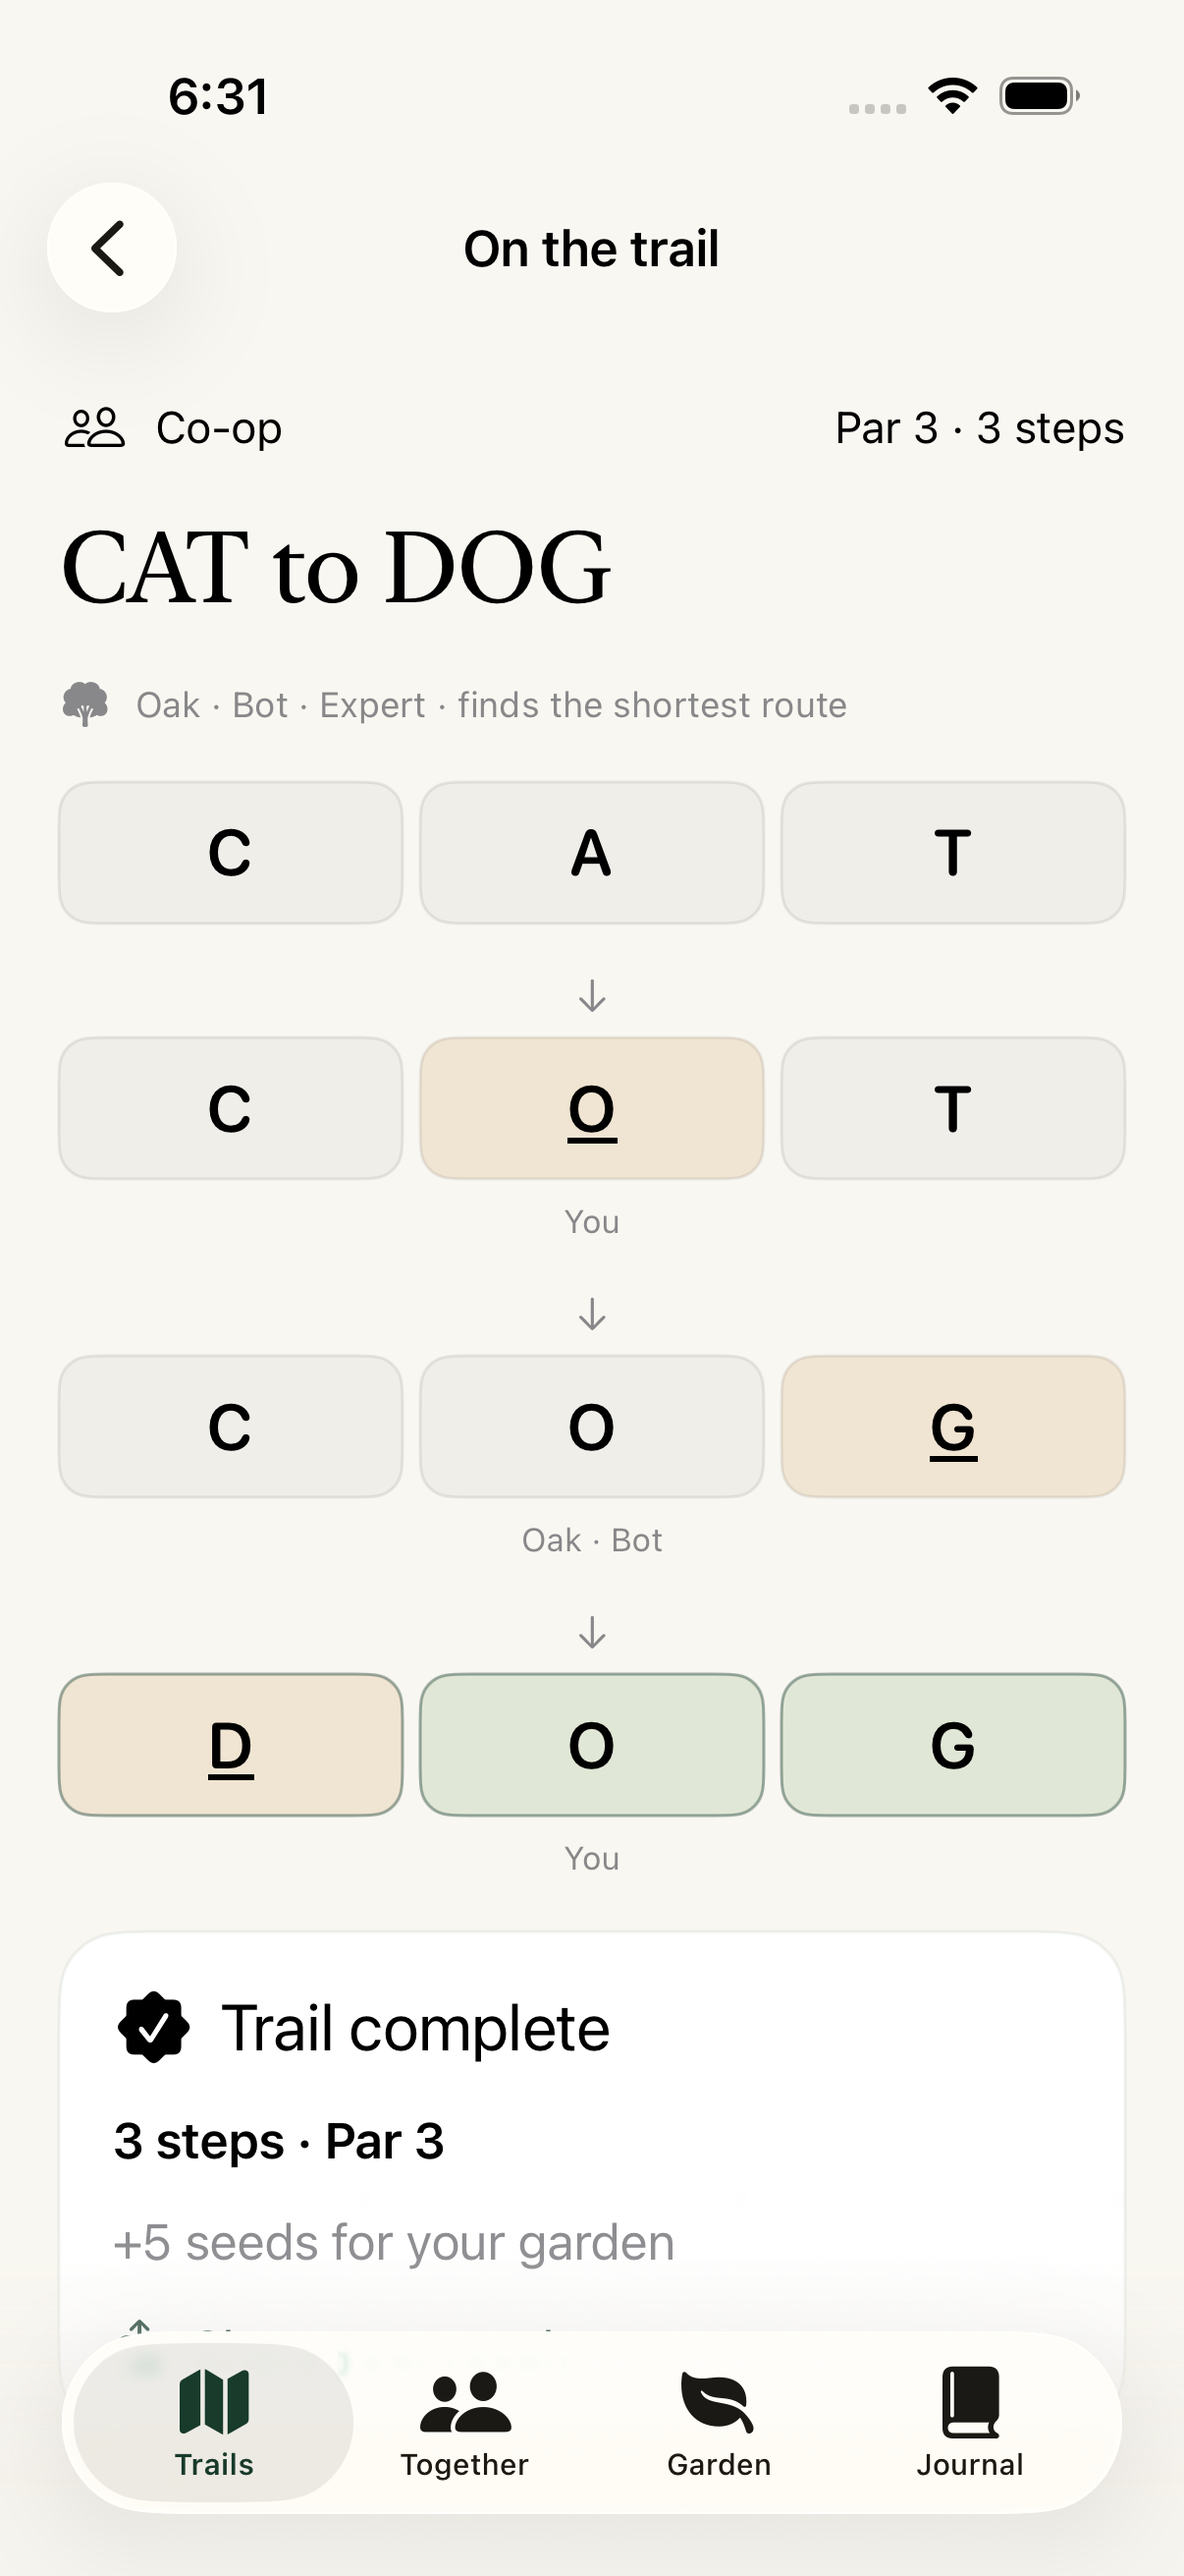
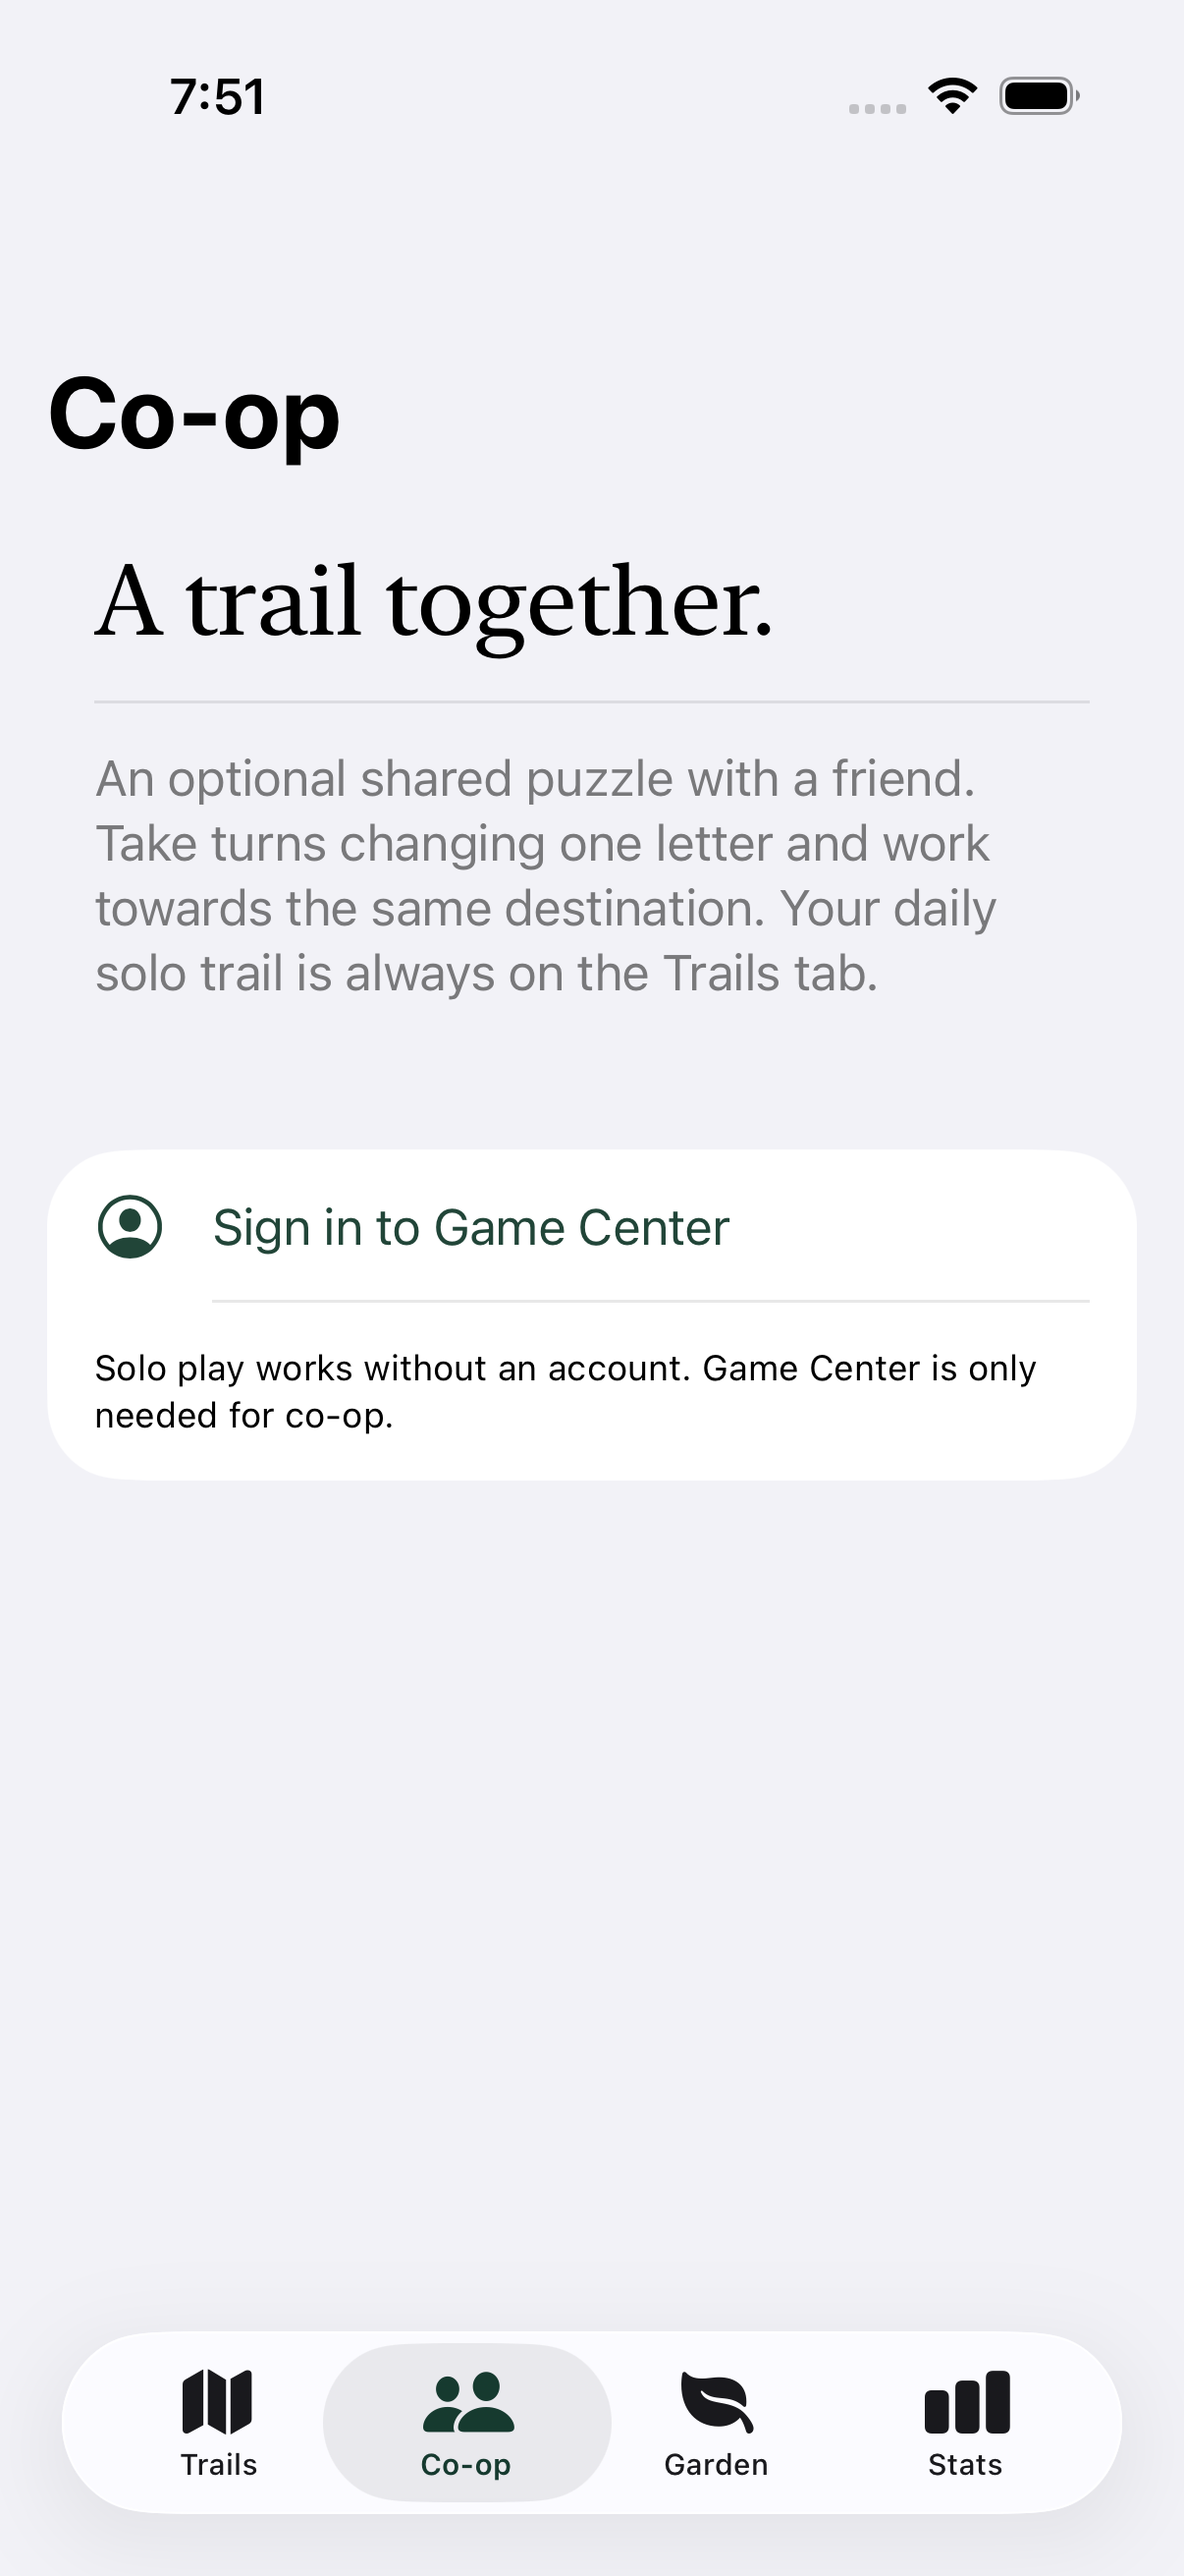
Document verified TestFlight 1.1.0 build 5 with native screenshots

diff --git a/README.md b/README.md
@@ -2,6 +2,10 @@
 
 Native iPhone word trails for iOS 17 and later. Daily solo play works offline, with optional real-friend co-op through Apple Game Center. No versus mode or bots. The website ways2earn.com is neither accessed nor changed.
 
+Current internal TestFlight beta: **1.1.0 (5)**, Apple processing `VALID`, assigned to Word Trails Internal with status **Testing**. Release source: `testflight-1.1.0-5` (`edcee235ed5194a98b206f0b6627c194c999e9b8`). All 15 engine tests and four iPhone simulator UI tests passed.
+
+<img src="docs/screenshots/08-Statistics.png" width="260" alt="Statistics per difficulty"> <img src="docs/screenshots/06-Complete.png" width="260" alt="An optimal route finishing one under par">
+
 ## Update 1.1
 
 - 37,819 accepted English word forms across the supported 3–6-letter lengths, including inflections and regional spellings. Includes SNARES. A comprehensive spellchecker dictionary, not a claim to contain every English word or proper name.
